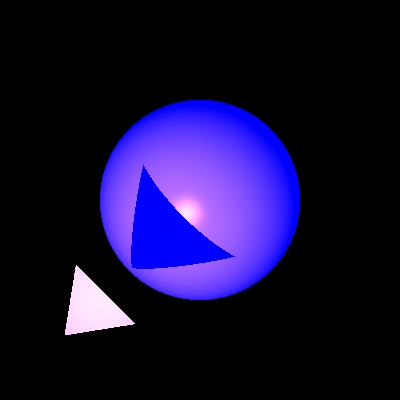
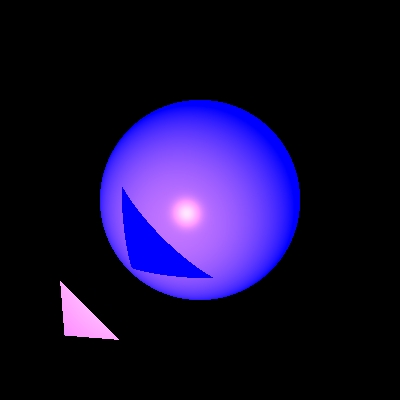
change in ShadowTests

Changed region(s): [[0.3, 0.42, 0.6, 0.72], [0.15, 0.66, 0.33, 0.87]]

diff --git a/src/unittests/unittests/renderer/ShadowTests.java b/src/unittests/unittests/renderer/ShadowTests.java
@@ -33,8 +33,8 @@ public class ShadowTests {
 				new Triangle(
 						new Color(java.awt.Color.BLUE),
 						new Material(0.5, 0.5, 30), //
-						new Point3D(-62, 32, 0),
-						new Point3D(-32, 62, 0),
+						new Point3D(-70, 40, 0),
+						new Point3D(-40, 70, 0),
 						new Point3D(-68, 68, 4)));
 
 		scene.addLights(new SpotLight(new Color(400, 240, 0), //
@@ -63,9 +63,9 @@ public class ShadowTests {
 				new Triangle(
 						new Color(java.awt.Color.BLUE),
 						new Material(0.5, 0.5, 30), //
-						new Point3D(-49, 19, 0),
-						new Point3D(-19, 49, 0),
-						new Point3D(-47, 47, 4)));
+						new Point3D(-60, 30, 0),
+						new Point3D(-30, 60, 0),
+						new Point3D(-58, 58, 4)));
 
 		scene.addLights(new SpotLight(new Color(400, 240, 0), //
 				new Point3D(-100, 100, -200), new Vector(1, -1, 3), 1, 1E-5, 1.5E-7));
@@ -90,8 +90,11 @@ public class ShadowTests {
 
 		scene.addGeometries(new Sphere(new Color(java.awt.Color.BLUE), new Material(0.5, 0.5, 30), //
 				60, new Point3D(0, 0, 200)), //
-				new Triangle(new Color(java.awt.Color.BLUE), new Material(0.5, 0.5, 30), //
-						new Point3D(-70, 40, 0), new Point3D(-40, 70, 0), new Point3D(-68, 68, 4)));
+				new Triangle(new Color(java.awt.Color.BLUE),
+						new Material(0.5, 0.5, 30), //
+						new Point3D(-50, 20, 0),
+						new Point3D(-20, 50, 0),
+						new Point3D(-48, 48, 4)));
 
 		scene.addLights(new SpotLight(new Color(400, 240, 0), //
 				new Point3D(-100, 100, -200), new Vector(1, -1, 3), 1, 1E-5, 1.5E-7));
@@ -116,11 +119,14 @@ public class ShadowTests {
 
 		scene.addGeometries(new Sphere(new Color(java.awt.Color.BLUE), new Material(0.5, 0.5, 30), //
 				60, new Point3D(0, 0, 200)), //
-				new Triangle(new Color(java.awt.Color.BLUE), new Material(0.5, 0.5, 30), //
-						new Point3D(-70, 40, 0), new Point3D(-40, 70, 0), new Point3D(-68, 68, 4)));
+				new Triangle(new Color(java.awt.Color.BLUE),
+						new Material(0.5, 0.5, 30),
+						new Point3D(-70, 40, 0),
+						new Point3D(-40, 70, 0),
+						new Point3D(-68, 68, 4)));
 
 		scene.addLights(new SpotLight(new Color(400, 240, 0), //
-				new Point3D(-100, 100, -200), new Vector(1, -1, 3), 1, 1E-5, 1.5E-7));
+				new Point3D(-75, 75, -70), new Vector(1, -1, 3), 1, 1E-5, 1.5E-7));
 
 		ImageWriter imageWriter = new ImageWriter("sphereTriangleSpot1", 200, 200, 400, 400);
 		Render render = new Render(imageWriter, scene);
@@ -142,11 +148,14 @@ public class ShadowTests {
 
 		scene.addGeometries(new Sphere(new Color(java.awt.Color.BLUE), new Material(0.5, 0.5, 30), //
 				60, new Point3D(0, 0, 200)), //
-				new Triangle(new Color(java.awt.Color.BLUE), new Material(0.5, 0.5, 30), //
-						new Point3D(-70, 40, 0), new Point3D(-40, 70, 0), new Point3D(-68, 68, 4)));
+				new Triangle(new Color(java.awt.Color.BLUE),
+						new Material(0.5, 0.5, 30), //
+						new Point3D(-70, 40, 0),
+						new Point3D(-40, 70, 0),
+						new Point3D(-68, 68, 4)));
 
 		scene.addLights(new SpotLight(new Color(400, 240, 0), //
-				new Point3D(-100, 100, -200), new Vector(1, -1, 3), 1, 1E-5, 1.5E-7));
+				new Point3D(-88, 88, -150), new Vector(1, -1, 3), 1, 1E-5, 1.5E-7));
 
 		ImageWriter imageWriter = new ImageWriter("sphereTriangleSpot2", 200, 200, 400, 400);
 		Render render = new Render(imageWriter, scene);
@@ -168,9 +177,13 @@ public class ShadowTests {
 
 		scene.addGeometries( //
 				new Triangle(Color.BLACK, new Material(0, 0.8, 60), //
-						new Point3D(-150, 150, 115), new Point3D(150, 150, 135), new Point3D(75, -75, 150)), //
+						new Point3D(-150, 150, 115),
+						new Point3D(150, 150, 135),
+						new Point3D(75, -75, 150)), //
 				new Triangle(Color.BLACK, new Material(0, 0.8, 60), //
-						new Point3D(-150, 150, 115), new Point3D(-70, -70, 140), new Point3D(75, -75, 150)), //
+						new Point3D(-150, 150, 115),
+						new Point3D(-70, -70, 140),
+						new Point3D(75, -75, 150)), //
 				new Sphere(new Color(java.awt.Color.BLUE), new Material(0.5, 0.5, 30), // )
 						30, new Point3D(0, 0, 115)));
 

diff --git a/src/primitives/Material.java b/src/primitives/Material.java
@@ -1,44 +1,27 @@
 package primitives;
 
 public class Material {
-    private final double _kD; // 0
-    private final double _kS; // 0
-    private final int _nShininess;  // 1
-    private final double _kT; // 0
-    private final double _kR; // 0
+    private final double _kD;
+    private final double _kS;
+    private final int _nShininess;
+    private final double _kr;
+    private final double _kt;
 
-    /**
-     * @param kD         The parameter that represents the diffusion factor of the material.
-     * @param kS         The parameter that represents the specularity factor of the material.
-     * @param nShininess The parameter that represents the shininess of the material.
-     * @param kR         Represents how much the object is reflective.
-     * @param kT         Represents the transparency of the object.
-     */
-    public Material(double kD, double kS, int nShininess, double kR, double kT) {
-        if (nShininess < 1) {
-            nShininess = 1;
-        }
+
+    public Material(double kD, double kS, int nShininess, double kt, double kr) {
         this._kD = kD;
         this._kS = kS;
         this._nShininess = nShininess;
-        this._kR = kR;
-        this._kT = kT;
-    }
-
-    public Material() {
-        this(0d, 0d, 1, 0d, 0d);
+        this._kt = kt;
+        this._kr = kr;
     }
 
     public Material(double kD, double kS, int nShininess) {
-        this(kD, kS, nShininess, 0d, 0d);
+        this(kD, kS, nShininess, 0, 0);
     }
 
-    public double getKd() {
-        return _kD;
-    }
-
-    public double getKs() {
-        return _kS;
+    public Material(Material material) {
+        this(material._kD, material._kS, material._nShininess, material._kt, material._kr);
     }
 
     public int getnShininess() {
@@ -53,11 +36,11 @@ public class Material {
         return _kS;
     }
 
-    public double getKt() {
-        return _kT;
+    public double getKr() {
+        return _kr;
     }
 
-    public double getKr() {
-        return _kR;
+    public double getKt() {
+        return _kt;
     }
 }
